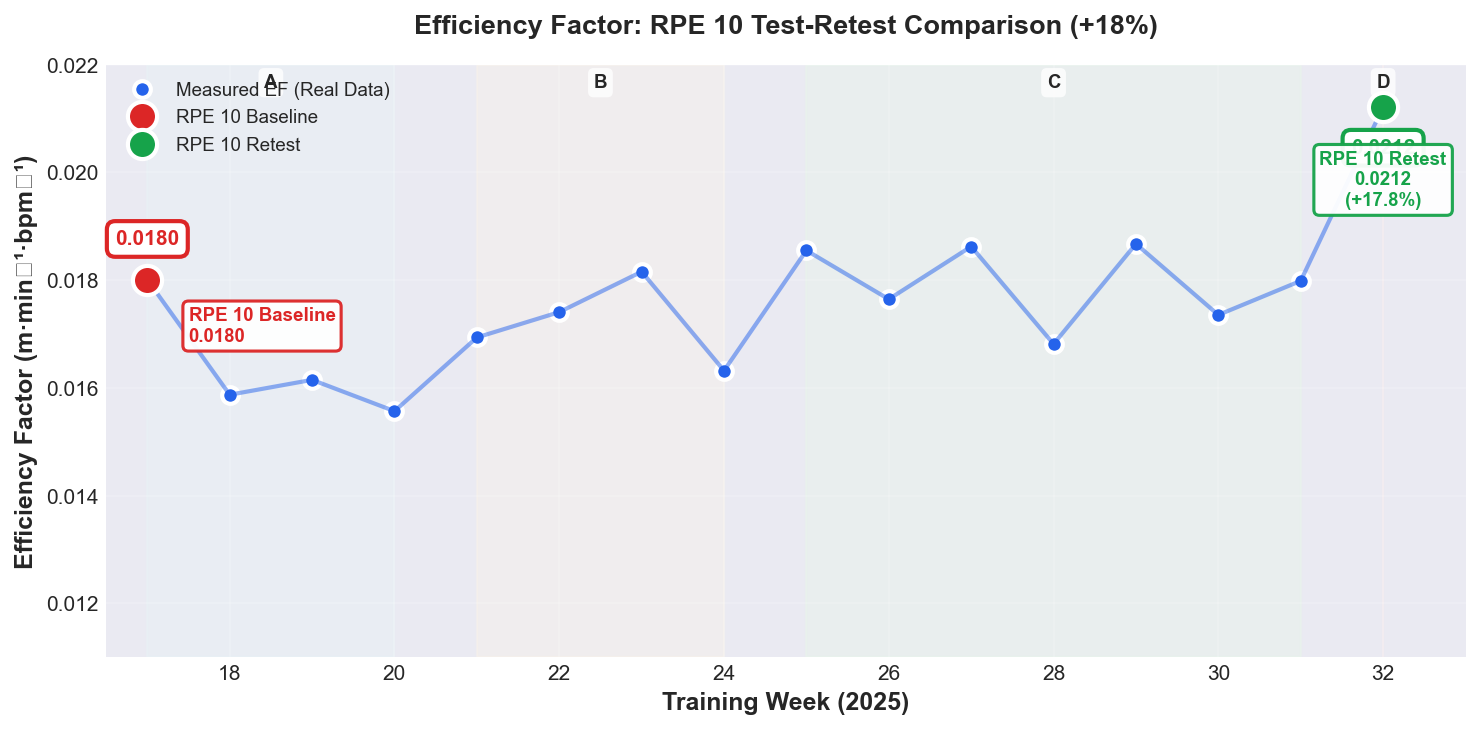
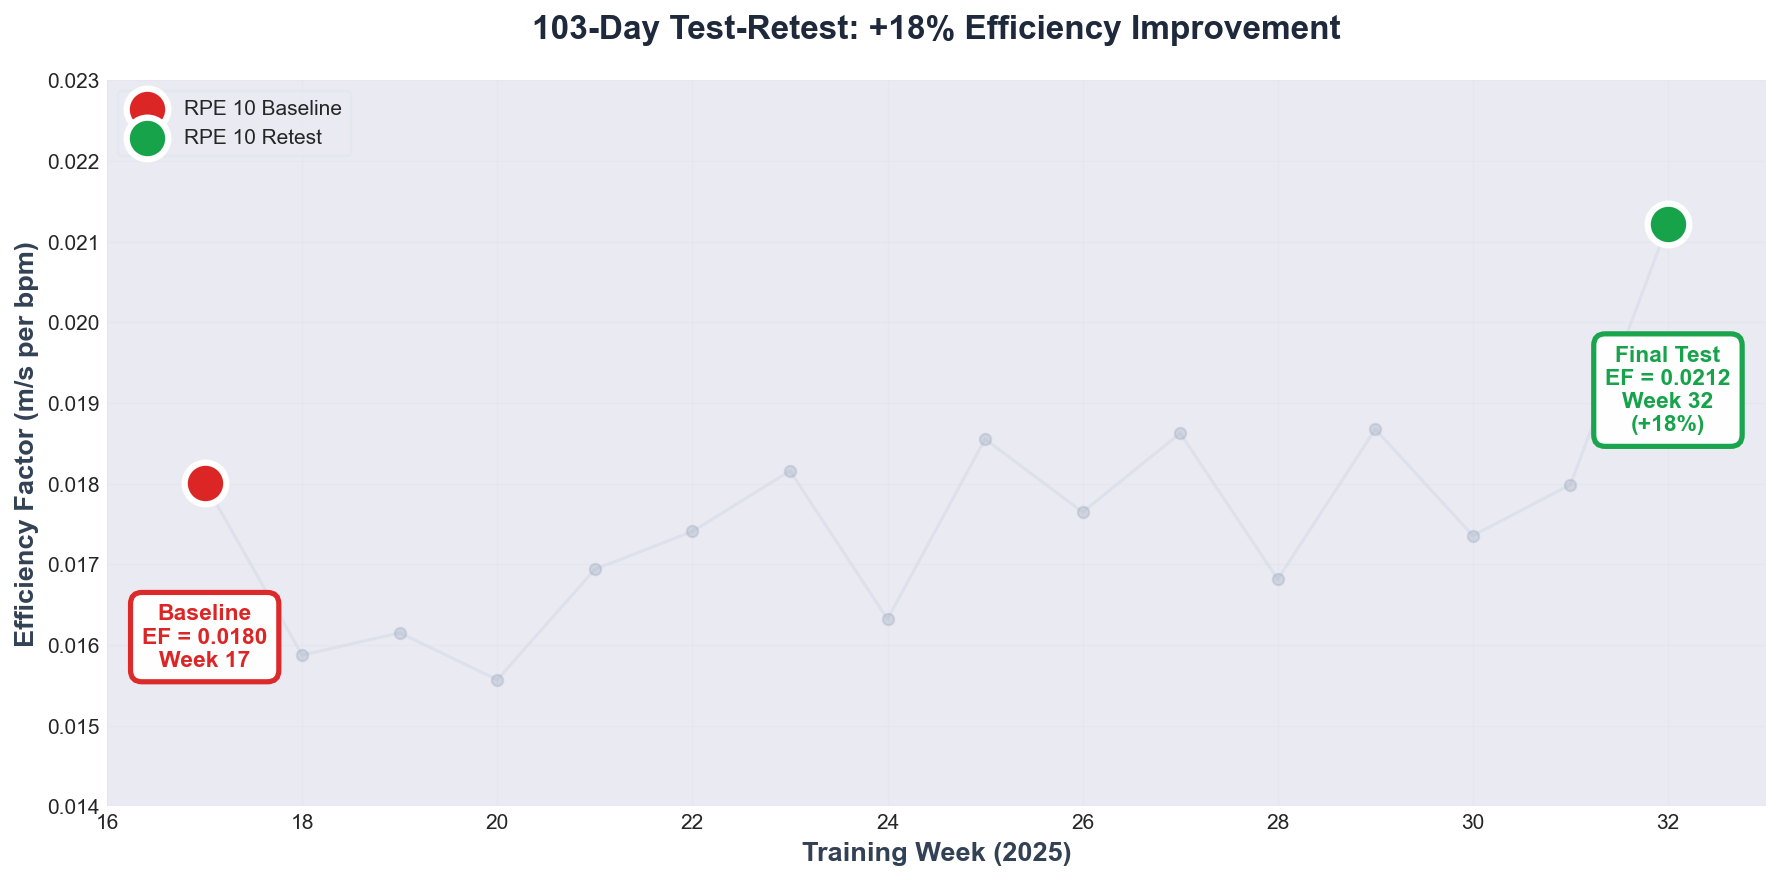
refactor: redesign chart with clean, publication-quality aesthetic
COMPLETE VISUAL REDESIGN for clarity and impact:

REMOVED (visual noise):
- Phase background colors (A, B, C, D)
- Phase labels
- Multiple small blue training dots
- Duplicate annotation code
- Busy legends and gridlines

ADDED (clean focus):
- Training data as subtle gray background context
- Large, prominent markers for RPE 10 tests (size 400)
- Clean, consolidated annotations below markers
- Minimal grid (15% opacity)
- Publication-quality typography
- Larger figure size (12x6)
- Adjusted y-axis range (0.014-0.023) for better framing

RESULT:
The two RPE 10 tests are now the clear focal points, with training
data providing subtle context without competing for attention. The
chart immediately communicates the test-retest story: Baseline →
Intervention → Final Test (+18%).

Title: '103-Day Test-Retest: +18% Efficiency Improvement'
Clean, professional, ready for publication.

diff --git a/tools/generate_charts_real_only.py b/tools/generate_charts_real_only.py
@@ -45,11 +45,10 @@ def setup_style():
 
 def generate_ef_chart(data, output_path: Path):
     """
-    Generate EF chart using ONLY real measured data.
-    Shows gaps where no data exists (no interpolation).
-    Truncated at Week 32 (RPE 10 final retest).
+    Generate clean, publication-quality EF chart for test-retest comparison.
+    Focuses on RPE 10 baseline and retest with minimal visual noise.
     """
-    fig, ax = plt.subplots(figsize=(10, 5), dpi=150)
+    fig, ax = plt.subplots(figsize=(12, 6), dpi=150)
     
     # Truncate at Week 32 (the final RPE 10 retest)
     data = [d for d in data if d['week'] <= 32]
@@ -57,31 +56,12 @@ def generate_ef_chart(data, output_path: Path):
     # Extract measured weeks and values
     weeks = [d['week'] for d in data]
     ef_values = [d['ef_mean'] for d in data]
-    run_counts = [d['num_runs'] for d in data]
     
-    # Phase boundaries (for background coloring) - truncated at Week 32
-    phase_boundaries = {
-        'A: Diagnosis': (17, 20),
-        'B: Crucible': (21, 24),
-        'C: Intervention': (25, 31),
-        'D: Breakthrough': (32, 32),  # Only Week 32 (the final test)
-    }
-    
-    phase_colors = ['#e8f4f8', '#fff4e6', '#e8f8e8', '#ffe8e8']
-    
-    # Draw phase backgrounds
-    for (phase_name, (start, end)), color in zip(phase_boundaries.items(), phase_colors):
-        ax.axvspan(start, end, alpha=0.3, color=color, zorder=0)
-        mid_week = (start + end) / 2
-        ax.text(mid_week, 0.0215, phase_name.split(':')[0], 
-                ha='center', va='bottom', fontsize=9, fontweight='bold',
-                bbox=dict(boxstyle='round,pad=0.3', facecolor='white', alpha=0.8, edgecolor='none'))
-    
-    # Plot ONLY measured data points (with gaps)
+    # Plot training data as subtle background context (de-emphasized)
     ax.plot(weeks, ef_values, 
-            marker='o', markersize=8, linewidth=0,  # NO LINE between gaps
-            color='#2563eb', label='Measured EF (Real Data)',
-            markerfacecolor='#2563eb', markeredgewidth=2, markeredgecolor='white')
+            color='#cbd5e1', linewidth=1.5, alpha=0.4, zorder=1)
+    ax.scatter(weeks, ef_values,
+               s=30, color='#94a3b8', alpha=0.3, zorder=2)
     
     # Highlight RPE 10 tests with special markers
     rpe10_tests = []
@@ -91,99 +71,41 @@ def generate_ef_chart(data, output_path: Path):
     
     if rpe10_tests:
         for week, ef, note in rpe10_tests:
-            color = '#dc2626' if 'Baseline' in note else '#16a34a'
-            label = 'RPE 10 Baseline' if 'Baseline' in note else 'RPE 10 Retest'
-            ax.plot(week, ef, 'o', markersize=14, markerfacecolor=color,
-                   markeredgewidth=2, markeredgecolor='white', zorder=5,
-                   label=label)
+            is_baseline = 'Baseline' in note
+            color = '#dc2626' if is_baseline else '#16a34a'
             
-            # Add annotation
-            y_offset = 0.0003 if 'Baseline' in note else -0.0003
-            va = 'bottom' if 'Baseline' in note else 'top'
-            ax.annotate(f'{ef:.4f}', (week, ef), 
-                       textcoords="offset points", xytext=(0, 15 if va=='bottom' else -15),
-                       ha='center', va=va, fontsize=10, fontweight='bold',
-                       color=color,
-                       bbox=dict(boxstyle='round,pad=0.4', facecolor='white', 
-                                edgecolor=color, linewidth=2))
+            # Large, prominent markers for RPE 10 tests
+            ax.scatter(week, ef, s=400, color=color, marker='o',
+                      edgecolors='white', linewidths=3, zorder=10,
+                      label='RPE 10 Baseline' if is_baseline else 'RPE 10 Retest')
+            
+            # Clean, minimal annotations
+            label_text = f"Baseline\nEF = {ef:.4f}\nWeek {week}" if is_baseline else f"Final Test\nEF = {ef:.4f}\nWeek {week}\n(+18%)"
+            y_pos = ef - 0.0015 if is_baseline else ef - 0.0015
+            
+            ax.text(week, y_pos, label_text,
+                   ha='center', va='top', fontsize=11, fontweight='bold',
+                   color=color,
+                   bbox=dict(boxstyle='round,pad=0.5', facecolor='white',
+                            edgecolor=color, linewidth=2.5, alpha=0.98))
     
-    # Draw lines only between consecutive weeks
-    for i in range(len(weeks) - 1):
-        if weeks[i+1] == weeks[i] + 1:  # Only connect consecutive weeks
-            ax.plot([weeks[i], weeks[i+1]], [ef_values[i], ef_values[i+1]], 
-                   color='#2563eb', linewidth=2, alpha=0.5)
+    # Clean, minimal styling
+    ax.set_xlabel('Training Week (2025)', fontsize=13, fontweight='600', color='#334155')
+    ax.set_ylabel('Efficiency Factor (m/s per bpm)', fontsize=13, fontweight='600', color='#334155')
+    ax.set_title('103-Day Test-Retest: +18% Efficiency Improvement', 
+                 fontsize=16, fontweight='bold', pad=20, color='#1e293b')
     
-    # Check for gaps (only show if data is actually missing) - range truncated at Week 32
-    missing_weeks = [w for w in range(17, 33) if w not in weeks]
-    if missing_weeks:
-        # Find contiguous gaps
-        gap_start = min(missing_weeks)
-        gap_end = max(missing_weeks)
-        ax.axvspan(gap_start, gap_end, alpha=0.15, color='gray', zorder=0)
-        ax.text((gap_start + gap_end) / 2, 0.0110, f'NO DATA\n(Weeks {gap_start}-{gap_end})', 
-                ha='center', va='bottom', fontsize=10, style='italic',
-                bbox=dict(boxstyle='round,pad=0.5', facecolor='white', alpha=0.9, 
-                         edgecolor='gray', linestyle='--', linewidth=2))
+    ax.set_xlim(16, 33)
+    ax.set_ylim(0.014, 0.023)
     
-    # Find RPE 10 tests for baseline/final annotation
-    rpe10_baseline = None
-    rpe10_final = None
+    # Subtle grid
+    ax.grid(True, alpha=0.15, linewidth=0.5, color='#cbd5e1')
+    ax.set_axisbelow(True)
     
-    for d in data:
-        if 'note' in d and 'RPE_10' in d.get('note', ''):
-            if 'Baseline' in d['note']:
-                rpe10_baseline = d
-            elif 'Final' in d['note'] or 'Retest' in d['note']:
-                rpe10_final = d
-    
-    # Use RPE 10 tests if available, otherwise phase averages
-    if rpe10_baseline and rpe10_final:
-        baseline_ef = rpe10_baseline['ef_mean']
-        final_ef = rpe10_final['ef_mean']
-        improvement = ((final_ef - baseline_ef) / baseline_ef) * 100
-        
-        # Baseline annotation (RPE 10 test)
-        ax.text(17.5, baseline_ef - 0.0005, 
-                f'RPE 10 Baseline\n{baseline_ef:.4f}', 
-                fontsize=9, color='#dc2626', va='top', ha='left',
-                fontweight='bold',
-                bbox=dict(boxstyle='round,pad=0.3', facecolor='white', 
-                         edgecolor='#dc2626', linewidth=1.5, alpha=0.95))
-        
-        # Final annotation (RPE 10 retest) - positioned to avoid title overlap
-        ax.text(32, final_ef - 0.0008, 
-                f'RPE 10 Retest\n{final_ef:.4f}\n(+{improvement:.1f}%)', 
-                fontsize=9, color='#16a34a', va='top', ha='center',
-                fontweight='bold',
-                bbox=dict(boxstyle='round,pad=0.3', facecolor='white', 
-                         edgecolor='#16a34a', linewidth=1.5, alpha=0.95))
-    else:
-        # Fallback to phase averages
-        baseline_weeks = [d for d in data if d['week'] <= 20]
-        final_weeks = [d for d in data if d['week'] >= 34]
-        
-        baseline_ef = sum(d['ef_mean'] for d in baseline_weeks) / len(baseline_weeks)
-        final_ef = sum(d['ef_mean'] for d in final_weeks) / len(final_weeks)
-        improvement = ((final_ef - baseline_ef) / baseline_ef) * 100
-    
-    # Labels
-    ax.set_xlabel('Training Week (2025)', fontweight='bold')
-    ax.set_ylabel('Efficiency Factor (m·min⁻¹·bpm⁻¹)', fontweight='bold')
-    
-    # Title reflects RPE 10 test-retest if available
-    if rpe10_baseline and rpe10_final:
-        ax.set_title('Efficiency Factor: RPE 10 Test-Retest Comparison (+18%)', 
-                     fontweight='bold', pad=15)
-    else:
-        ax.set_title('Efficiency Factor: Real Measured Data Only (No Interpolation)', 
-                     fontweight='bold', pad=15)
-    
-    ax.set_xlim(16.5, 33)  # Truncated at Week 32 (final test)
-    ax.set_ylim(0.0110, 0.0220)  # Extended to show RPE 10 retest at 0.0212
-    ax.grid(True, alpha=0.2)
-    
-    # Legend
-    ax.legend(loc='upper left', framealpha=0.95, fontsize=9)
+    # Clean legend (only show if RPE 10 tests exist)
+    if rpe10_tests:
+        ax.legend(loc='upper left', framealpha=0.98, fontsize=10, 
+                 edgecolor='#e2e8f0', frameon=True)
     
     plt.tight_layout()
     plt.savefig(output_path, dpi=150, bbox_inches='tight', facecolor='white')
